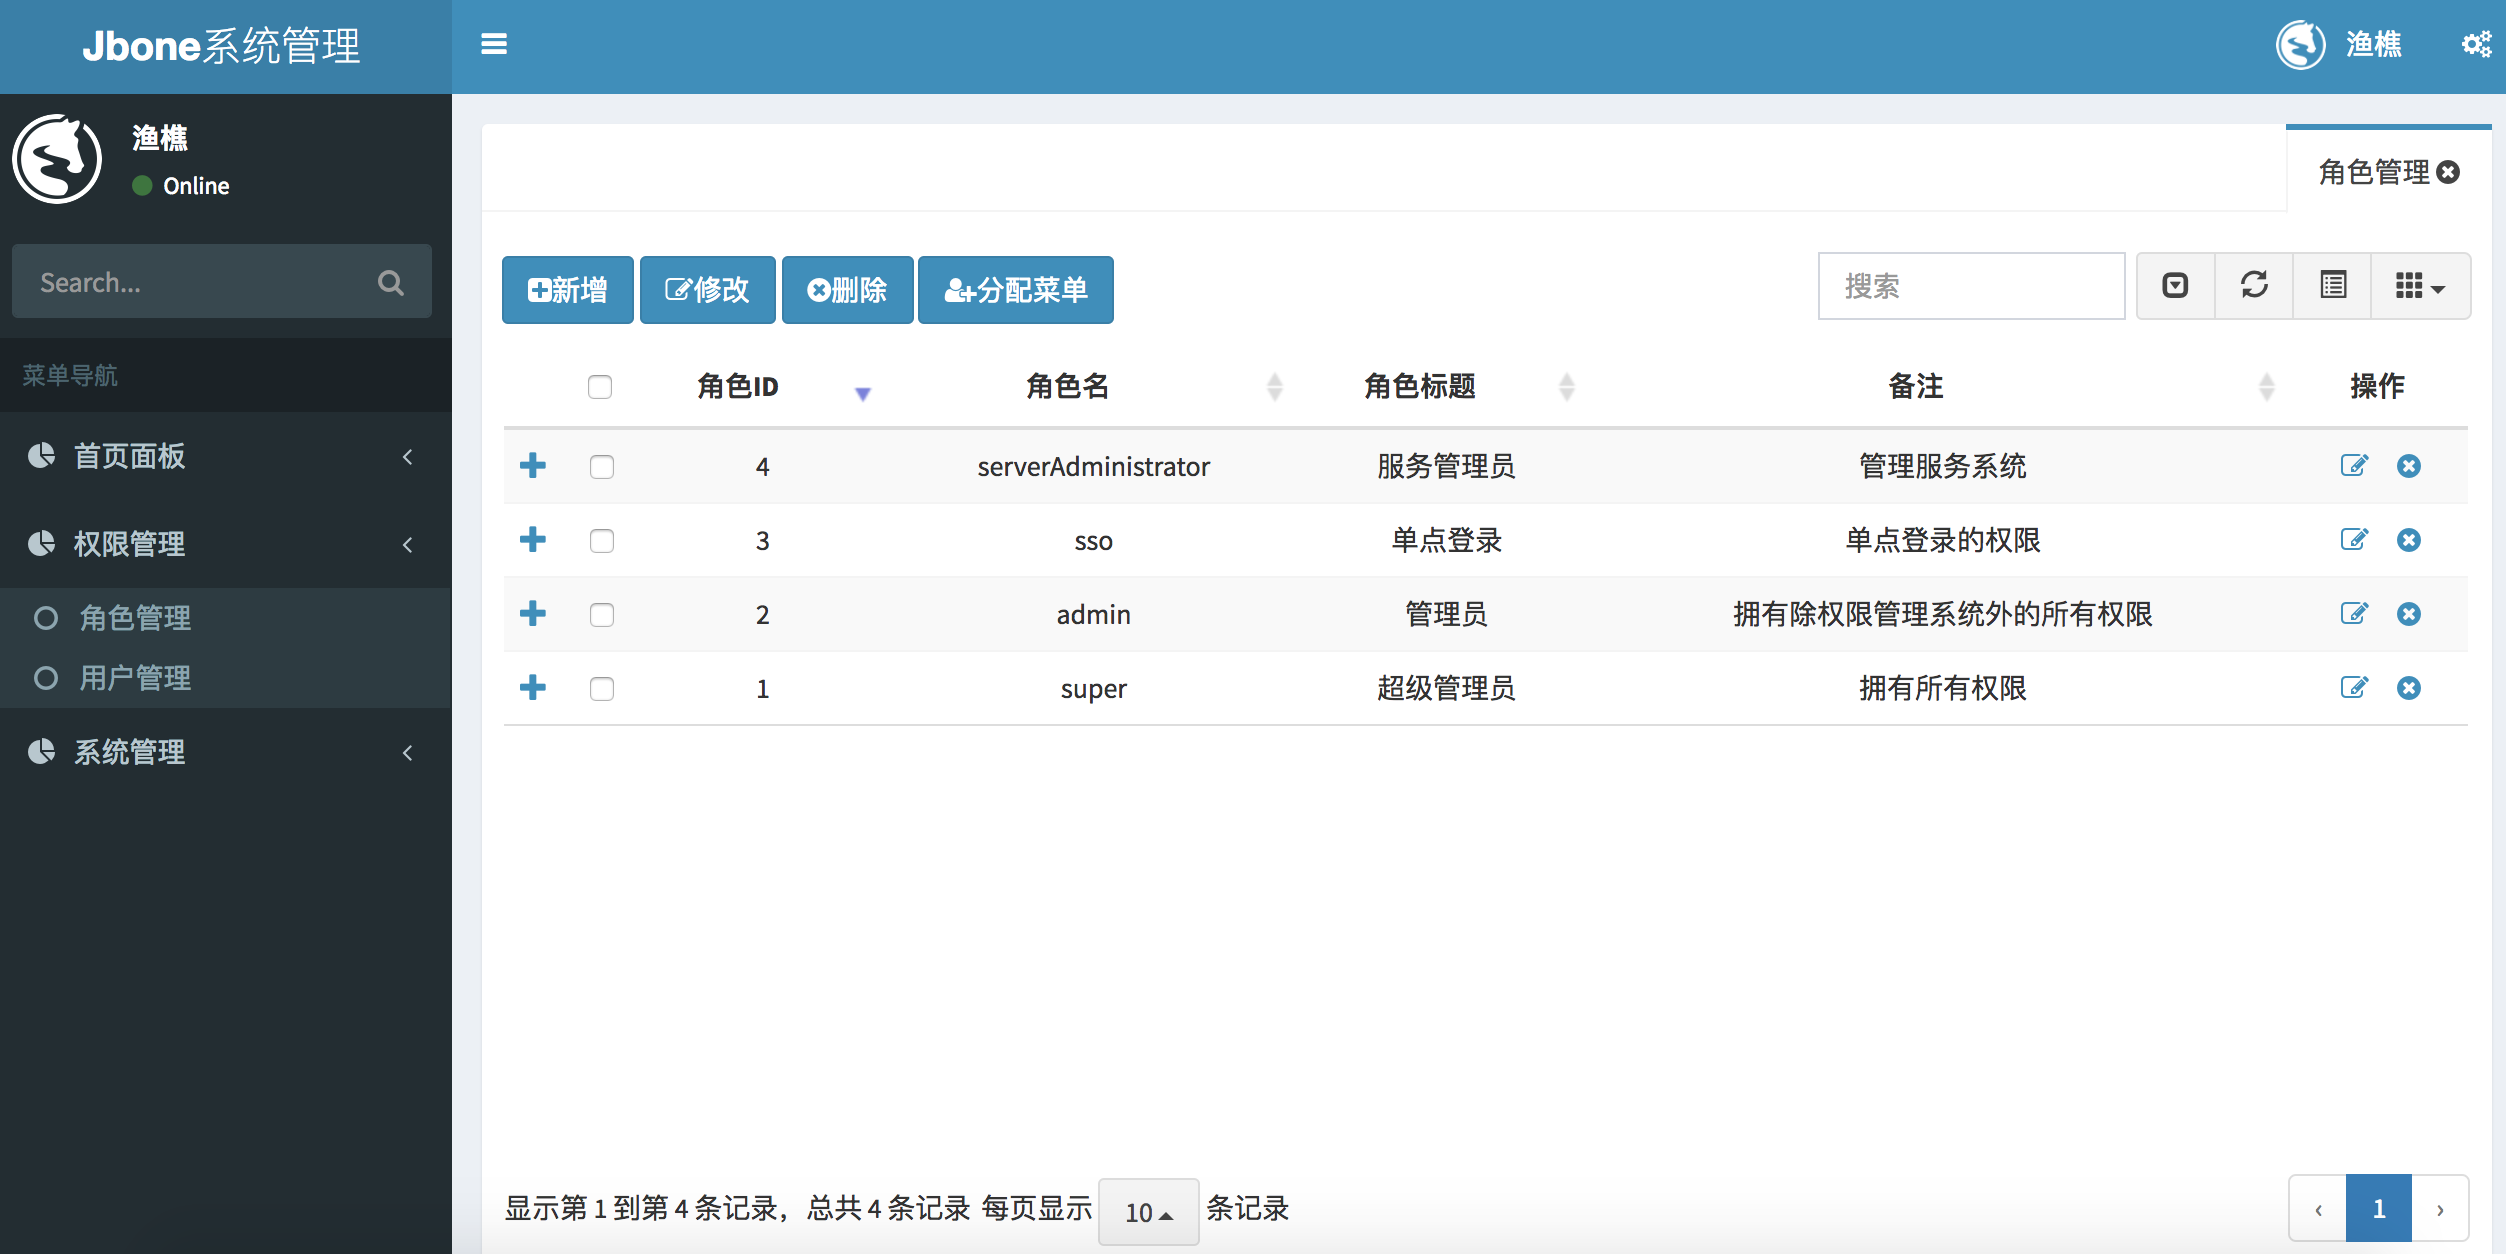
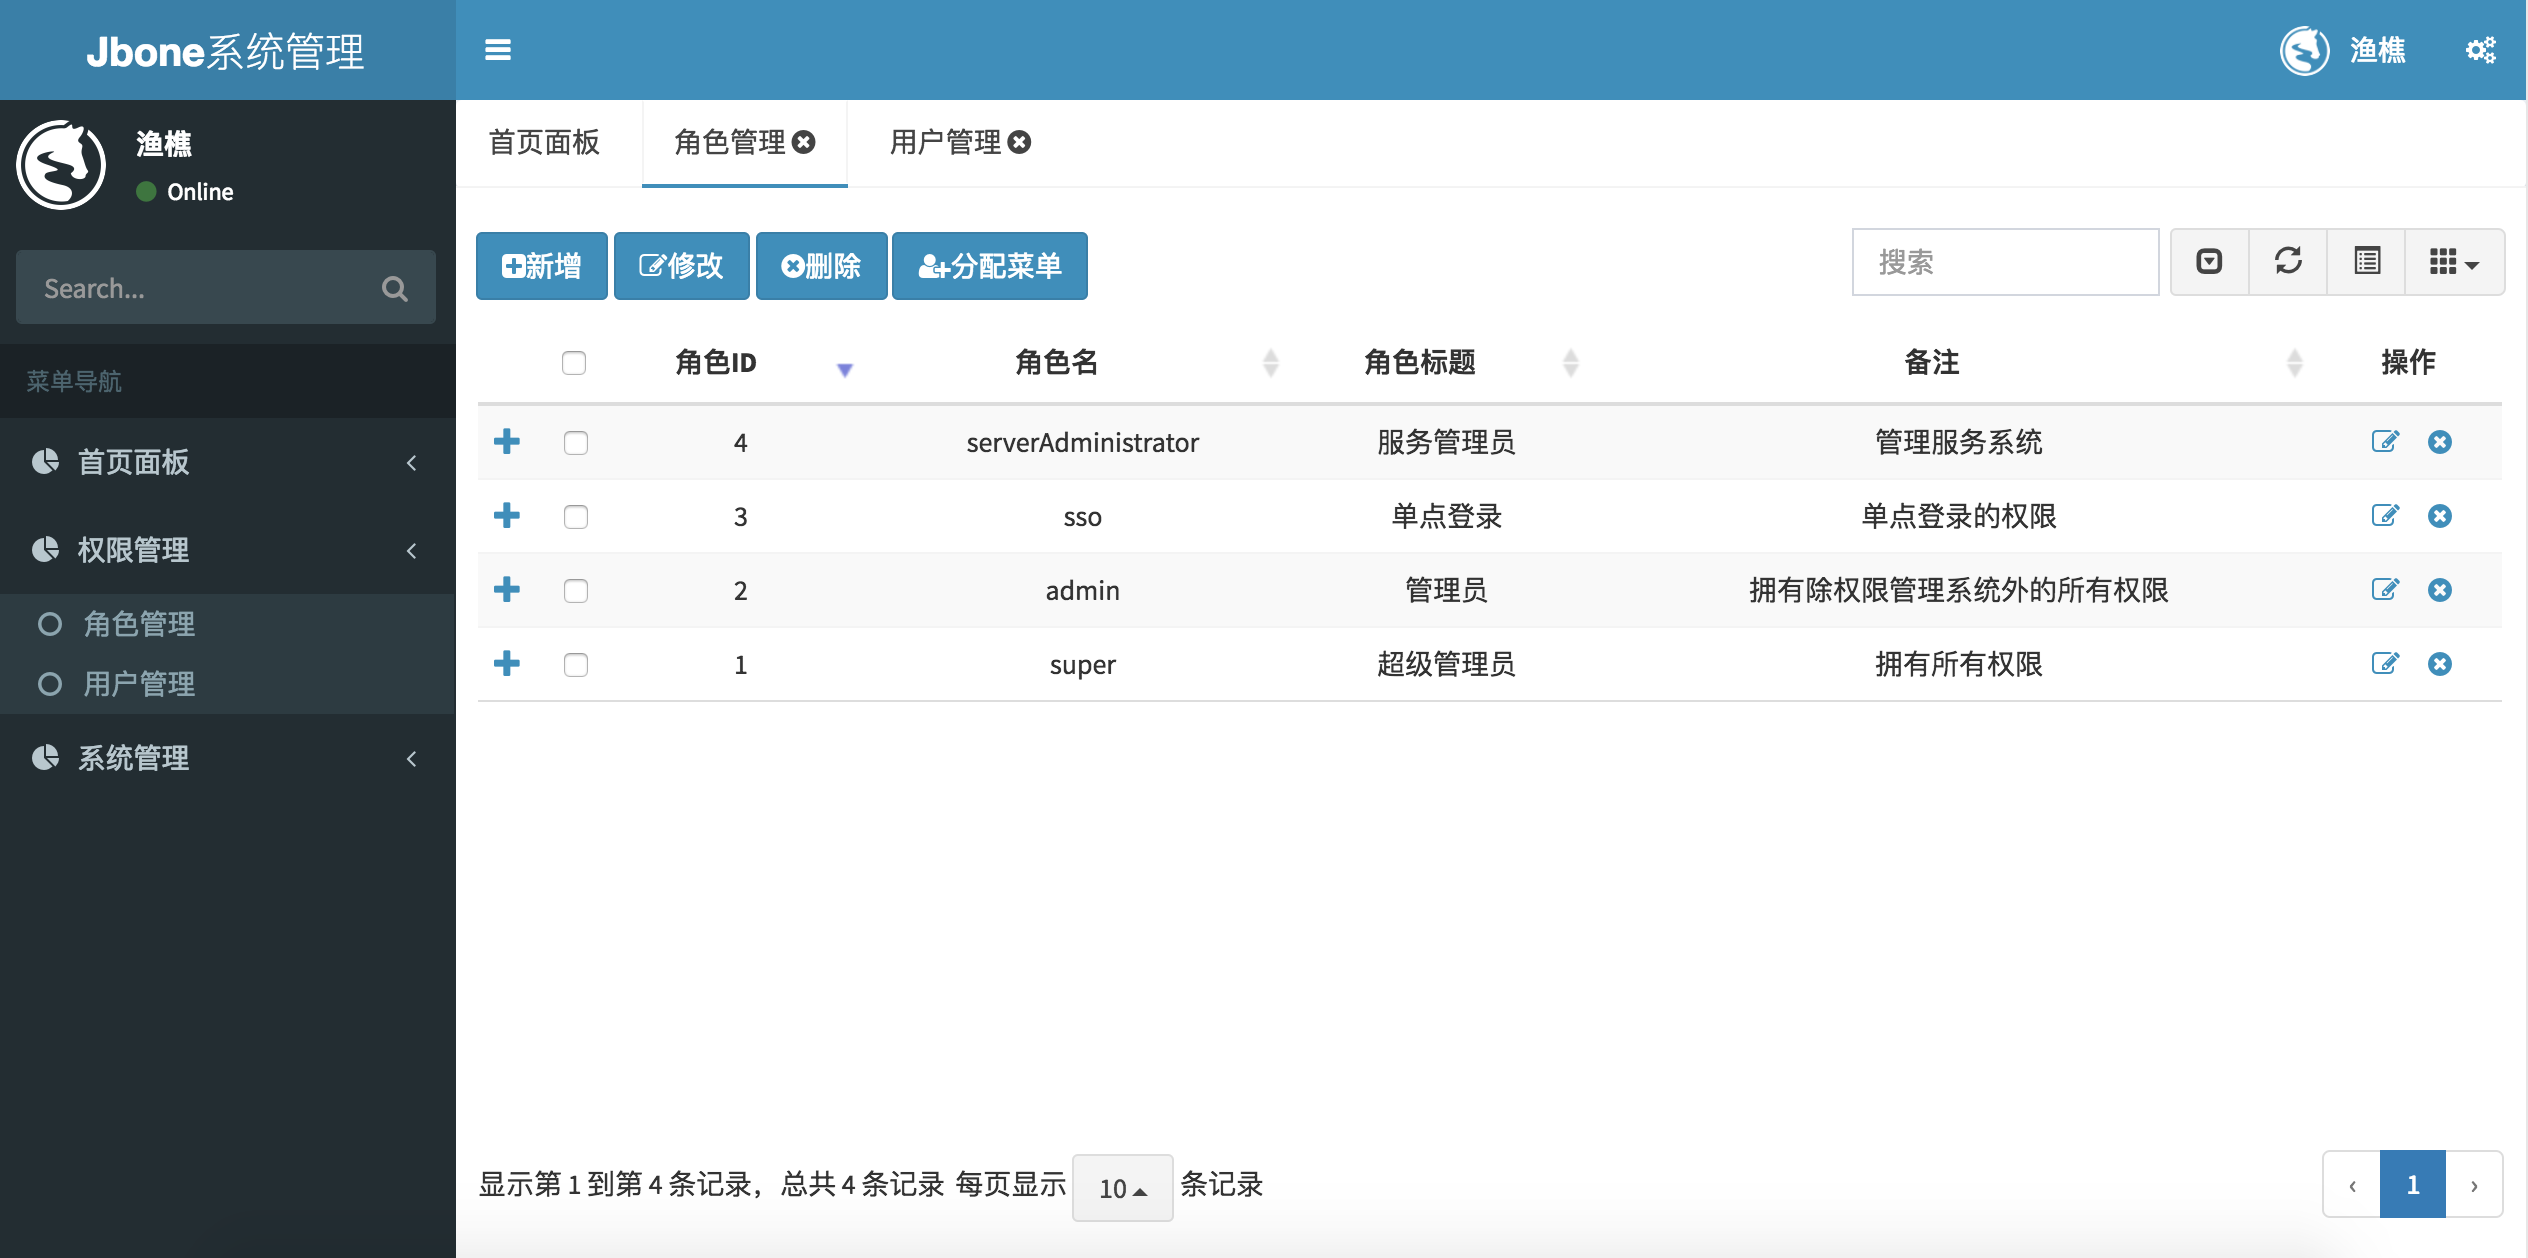
修改tab样式

diff --git a/jbone-sys/jbone-sys-admin/src/main/resources/templates/index.html b/jbone-sys/jbone-sys-admin/src/main/resources/templates/index.html
@@ -23,15 +23,20 @@
   <!-- Content Wrapper. Contains page content -->
   <div class="content-wrapper ">
     <!-- Main content -->
-    <section class="content">
+    <section class="content-header nav-header">
+      <div class="nav-tabs-custom">
+        <ul class="nav nav-tabs ui-sortable-handle nav-tabs-title">
+        </ul>
+      </div>
+    </section>
+
+    <section class="content nav-content">
       <!-- Main row -->
       <div class="row">
         <!-- Left col -->
         <section class="col-lg-12 connectedSortable">
           <!-- Custom tabs (Charts with tabs)-->
           <div class="nav-tabs-custom">
-            <ul class="nav nav-tabs pull-right ui-sortable-handle nav-tabs-title">
-            </ul>
             <!-- Tabs within a box -->
             <div class="tab-content nav-tabs-content">
               <!-- Morris chart - Sales -->

diff --git a/jbone-sys/jbone-sys-admin/src/main/resources/static/css/common.css b/jbone-sys/jbone-sys-admin/src/main/resources/static/css/common.css
@@ -1,0 +1,20 @@
+.nav-tabs-custom>.nav-tabs>li.active{
+    border-bottom-color: #3c8dbc;
+}
+
+.nav-tabs-custom>.nav-tabs>li{
+    border-top: 0px;
+    border-bottom: 3px solid transparent;
+}
+
+.nav-header{
+    padding: 0px;
+}
+
+.nav-content{
+    padding: 0px;
+}
+
+.nav-header .nav-tabs-custom{
+    margin-bottom: 0px;
+}

diff --git a/jbone-sys/jbone-sys-admin/src/main/resources/templates/layout/css.html b/jbone-sys/jbone-sys-admin/src/main/resources/templates/layout/css.html
@@ -38,6 +38,7 @@
     <!-- bootstrap wysihtml5 - text editor -->
     <link rel="stylesheet" th:href="@{/webjars/adminlte/2.3.11/plugins/bootstrap-wysihtml5/bootstrap3-wysihtml5.min.css}"/>
 
+    <link rel="stylesheet" th:href="@{/css/common.css}"/>
 </div>
 </body>
 </html>
